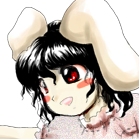
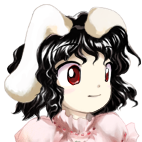
touhous

diff --git a/stuff/tierlist/index.html b/stuff/tierlist/index.html
@@ -107,7 +107,7 @@
 				</div>
 				<p><strong>Changing your game will empty your tierlist!</strong> Do not click unless you are sure you want to change! You cannot undo this.</p>
 				<p>Puyo icons are from Puyo Puyo Quest!!. Dragon is custom-made using Puyo Puyo~n art and Puyo Puyo Champions/Puyo Puyo eSports player icon assets.</p>
-				<p>Touhou icons are from the art from their respective games.</p>
+				<p>Touhou icons are from the art from their respective games. (Momiji is from Touhou Cannonball)</p>
 			</div>
 			<div id="helpMenu">
 				<h1>HELP</h1>
@@ -152,7 +152,7 @@
 		var gamePuyoTet = ["puyo","amitie","ringo","rulue","suketoudara","zed","draco","ess","lemres","satan","ai","arlecarbuncle","maguro","sig","ecolo","ex","o","raffina","risukuma","witch","feli","jayelle","klug","schezo","tee"];
 		var gamePuyoChron = ["puyo","amitie","ringo","rulue","suketoudara","ally","draco","lemres","lidelle","satan","accord","arle","maguro","sig","carbuncle","ecolo","oceanprince","raffina","risukuma","witch","feli","klug","rafisol","schezo","yurei","seriri","donguri","harpy","onionpixie","lagnus"];
 		var gamePuyoChamp = ["puyo","amitie","hed","ringo","rulue","suketoudara","ally","draco","harpy","hartman","penglai","satan","arle","ciel","maguro","sig","seriri","alex","carbuncle","raffina","risukuma","witch","lagnus","schezo","sultana"];
-		var gameTouhou = ["touhou","akyuu","alice","aunn","aya","benben","byakuren","chen","cirno","clownpiece","doremy","eika","eiki","eirin","eternity","flandre","futo","hatate","hecatia","hina","ichirin","iku","joon","junko","kagerou","kaguya","kanako","kasen","keiki","keine","kisume","kogasa","koishi","kokoro","komachi","kosuzu","kutaka","kyouko","letty","luna","lunasa","lyrica","mai","mamizou","marisa","mayumi","medicine","merlin","miko","minoriko","miyoi","mokou","murasa","mystia","narumi","nazrin","nemuno","nitori","nue","okina","parsee","patchouli","raiko","ran","reimu","reisen","remilia","rin","ringo","rinnosuke","rumia","sagume","saki","sakuya","sanae","satono","satori","seiga","seija","seiran","sekibanki","shinmyoumaru","shion","shizuha","shou","star","suika","sumireko","sunny","suwako","tenshi","tewi","tojiko","urumi","utsuho","wakasagihime","wriggle","yachie","yamame","yatsuhashi","yoshika","youmu","yukari","yuugi","yuuka","yuyuko"];
+		var gameTouhou = ["touhou","akyuu","alice","aunn","aya","benben","byakuren","chen","cirno","clownpiece","doremy","eika","eiki","eirin","eternity","flandre","futo","hatate","hecatia","hina","ichirin","iku","joon","junko","kagerou","kaguya","kanako","kasen","keiki","keine","kisume","kogasa","koishi","kokoro","komachi","kosuzu","kutaka","kyouko","letty","luna","lunasa","lyrica","mai","mamizou","maribel","marisa","mayumi","medicine","merlin","miko","minoriko","miyoi","mokou","momiji","murasa","mystia","narumi","nazrin","nemuno","nitori","nue","okina","parsee","patchouli","raiko","ran","reimu","reisen","remilia","renko","rin","ringo","rinnosuke","rumia","sagume","saki","sakuya","sanae","satono","satori","seiga","seija","seiran","sekibanki","shinmyoumaru","shion","shizuha","shou","star","suika","sumireko","sunny","suwako","tenshi","tewi","tojiko","toyohime","urumi","utsuho","wakasagihime","wriggle","yachie","yamame","yatsuhashi","yorihime","yoshika","youmu","yukari","yuugi","yuuka","yuyuko"];
 		var gameTh75 = ["th7.5","alice","marisa","meiling","patchouli","reimu","remilia","sakuya","suika","youmu","yukari","yuyuko"];
 		var gameTh105 = ["th10.5","alice","aya","iku","komachi","marisa","patchouli","reimu","reisen","remilia","sakuya","suika","tenshi","youmu","yukari","yuyuko"];
 		var gameTh123 = ["th12.3","alice","aya","cirno","iku","komachi","marisa","meiling","patchouli","reimu","reisen","remilia","sakuya","sanae","suika","suwako","tenshi","utsuho","youmu","yukari","yuyuko"];
